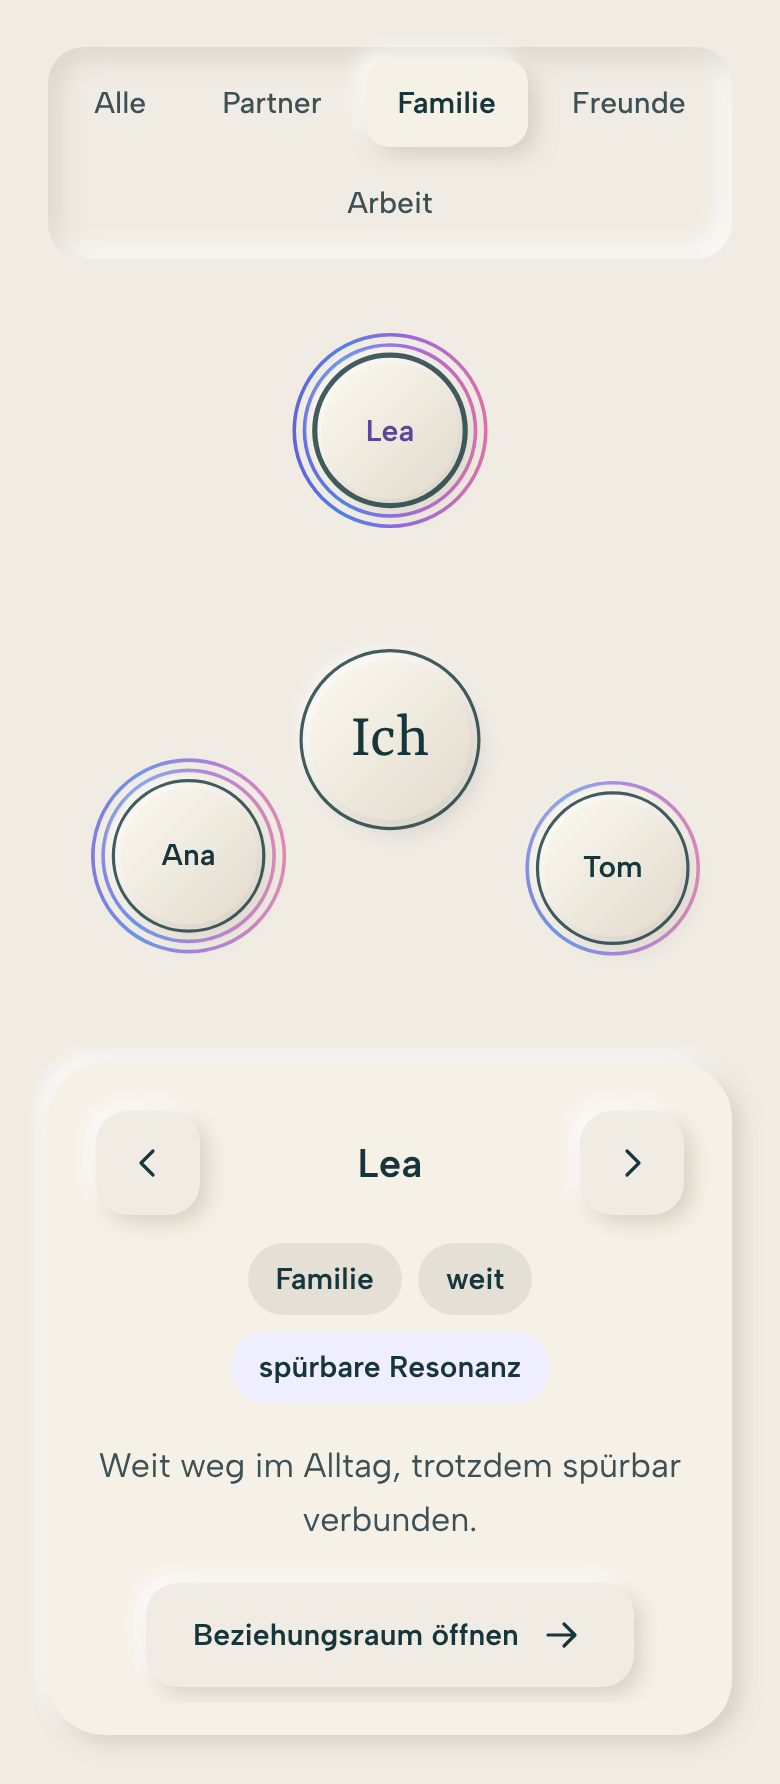
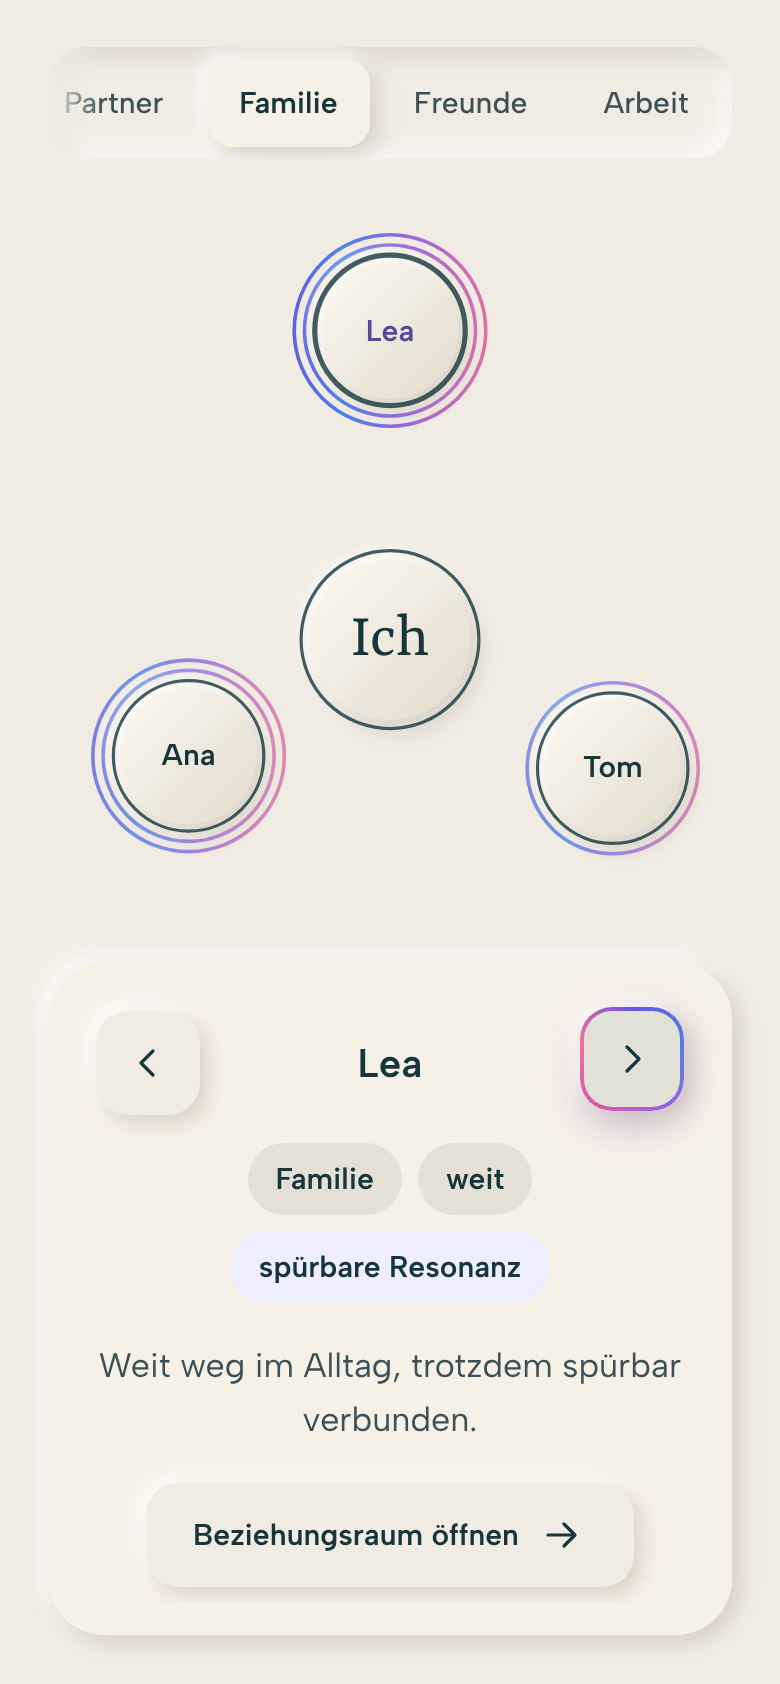
Umfeld: eigene Menschen und Arten, Filter einzeilig
mount() nimmt people und kinds entgegen, die Beispieldaten sind nur noch
die Vorgabe. Namen und Notizen werden als Text gesetzt. Die Filterzeile
auf dem Telefon bleibt einzeilig und lässt sich wischen.

Claude-Session: https://claude.ai/code/session_01GcUU3Qg4dj9oPnZ4iDHoTB

diff --git a/components/umfeld/umfeld.js b/components/umfeld/umfeld.js
@@ -5,7 +5,7 @@
    die Resonanz (wie im Beziehungsraum), keine Linie führt zur Mitte. Ohne
    aktive Resonanz bleibt nur der Abstand. Der Freiraum fehlt, das Umfeld
    kennt den Wert nicht.
-   Der Winkel sagt die Art (KINDS: Partner, Familie, Freunde, Arbeit, im Uhrzeigersinn,
+   Der Winkel sagt die Art (opts.kinds, Vorgabe Partner, Familie, Freunde, Arbeit, im Uhrzeigersinn,
    die erste oben). Wer zusammengehört, steht beieinander. Ein feiner Bogen mit dem Wort
    der Art fasst jede Gruppe, wie die Bereiche des Resonanzrads. Das Wort misst am
    Bildschirm mindestens 15 px, das Bild baut sich bei Breitenwechsel neu auf.
@@ -28,7 +28,16 @@
    in eine andere Art, springt der Filter mit. Ab 520 px (wide) gibt es keinen Filter, das Bild zeigt
    alle mit Namen. Wird das Element breiter oder schmaler, baut sich das Bild neu auf, die Auswahl bleibt.
 
-   API: ElanumUmfeld.mount(root, { link: 'pfad/zum/beziehungsraum/', heading: 'h3' })
+   Die Filterzeile bleibt einzeilig und lässt sich waagrecht wischen (die Zeile scrollt, nicht die Seite). Passt alles hinein,
+   steht sie mittig. Die gewählte Pille rollt in den sichtbaren Bereich, ein weicher Rand zeigt, dass es weitergeht.
+
+   API: ElanumUmfeld.mount(root, { link: 'pfad/zum/beziehungsraum/', heading: 'h3', people: [...], kinds: [...] })
+        people: Array { name, kind, proximity (0 bis 100), resonance (0 bis 100), note }. Fehlt es, gelten die Beispielmenschen
+        (window.ElanumUmfeld.people). Namen und Notizen werden als Text gesetzt, nie als HTML.
+        kinds: Reihenfolge der Arten als Array von Strings (Vorgabe window.ElanumUmfeld.kinds). Arten, die nur in people vorkommen,
+        hängen hinten an (Reihenfolge des ersten Auftretens), Arten ohne Menschen entfallen. Gibt es weniger als zwei Arten, gibt es
+        keine Bögen, Wörter und keinen Filter, und die Menschen stehen gleichmässig verteilt. Wer in einem Umfeld mit mehreren Arten
+        keine hat, steht in der Gruppe «Weitere». Null Menschen: nur «Ich», kein Panel. Ein Mensch: keine Pfeile.
         gibt { select(i), parts } zurück. select(i) wählt den Menschen i (läuft um).
         parts.people: je sichtbarem Menschen { index, person, disc, contour, rings, name (nur mit Namen), from, at, width },
         parts.groups: die Gruppen-Knöpfe der Übersicht, parts.view: 'wide', 'all' oder 'kind'.
@@ -45,10 +54,11 @@
     /* Eine Art auf dem Telefon: gross, mit Namen, gleichmässig rund um «Ich», keine Bögen. */
     kind: { W: 400, H: 400, CX: 200, CY: 200, ME: 52, R: 44, base: 120, k: 0.8, edge: 200, ring: 6, out: 172, fs0: 15, px0: 358 }
   };
-  /* Der Winkel sagt die Art. Die Reihenfolge der Arten läuft im Uhrzeigersinn, die erste steht oben. */
-  var KINDS = ['Partner', 'Familie', 'Freunde', 'Arbeit'];
+  /* Der Winkel sagt die Art. Die Reihenfolge der Arten läuft im Uhrzeigersinn, die erste steht oben.
+     Vorgabe, wenn die App keine eigenen Arten (opts.kinds) und Menschen (opts.people) mitgibt. */
+  var DEFAULT_KINDS = ['Partner', 'Familie', 'Freunde', 'Arbeit'];
   var GAP = 16, MIN_WORD = 15;
-  var PEOPLE = [
+  var SAMPLE = [
     { name: 'Mara', kind: 'Partner', proximity: 84, resonance: 86, note: 'Ihr teilt viel, ohne dasselbe zu brauchen.' },
     { name: 'Lea', kind: 'Familie', proximity: 24, resonance: 64, note: 'Weit weg im Alltag, trotzdem spürbar verbunden.' },
     { name: 'Tom', kind: 'Familie', proximity: 62, resonance: 30, note: 'Ihr seht euch oft. Die Verbindung ist leise.' },
@@ -58,16 +68,48 @@
     { name: 'Nia', kind: 'Freunde', proximity: 38, resonance: 88, note: 'Selten da, und doch die stärkste Resonanz.' },
     { name: 'Ben', kind: 'Arbeit', proximity: 28, resonance: 20, note: 'Ihr arbeitet zusammen. Mehr ist es im Moment nicht.' },
     { name: 'Ida', kind: 'Arbeit', proximity: 58, resonance: 0, note: 'Nah im Alltag, ohne aktive Resonanz.' }
-  ].sort(function (a, b) { return KINDS.indexOf(a.kind) - KINDS.indexOf(b.kind); });
+  ].sort(function (a, b) { return DEFAULT_KINDS.indexOf(a.kind) - DEFAULT_KINDS.indexOf(b.kind); });
+  function num(v, fallback) { v = Number(v); return isFinite(v) ? Math.max(0, Math.min(100, v)) : fallback; }
+  /* Menschen und Arten der App ordnen: Werte säubern, Arten in die Reihenfolge von opts.kinds bringen.
+     Arten, die nur in den Menschen vorkommen, hängen hinten (Reihenfolge ihres ersten Auftretens), Arten ohne Menschen entfallen.
+     Gibt es weniger als zwei Arten, gibt es keine Gruppen: grouped ist false und das Bild verteilt die Menschen gleichmässig. */
+  function prepare(opts) {
+    var raw = opts.people === undefined ? SAMPLE : Array.isArray(opts.people) ? opts.people : [];
+    var list = [];
+    raw.forEach(function (src) {
+      if (!src || typeof src !== 'object') return;
+      var p = {}, k;
+      for (k in src) p[k] = src[k];
+      p.name = src.name == null ? '' : String(src.name);
+      p.kind = src.kind == null ? '' : String(src.kind).trim();
+      p.proximity = num(src.proximity, 50); p.resonance = num(src.resonance, 0);
+      p.note = src.note == null ? '' : String(src.note);
+      list.push(p);
+    });
+    var order = [];
+    (Array.isArray(opts.kinds) ? opts.kinds : DEFAULT_KINDS).concat(list.map(function (p) { return p.kind; })).forEach(function (k) {
+      k = k == null ? '' : String(k).trim();
+      if (k && order.indexOf(k) < 0) order.push(k);
+    });
+    var present = order.filter(function (k) { return list.some(function (p) { return p.kind === k; }); });
+    var grouped = present.length >= 2;
+    if (grouped) {
+      /* Wer keine Art hat, steht in einer letzten Gruppe «Weitere». */
+      if (list.some(function (p) { return !p.kind; })) { list.forEach(function (p) { if (!p.kind) p.kind = 'Weitere'; }); if (present.indexOf('Weitere') < 0) present.push('Weitere'); }
+      list = list.map(function (p, i) { return { p: p, i: i }; }).sort(function (a, b) { return (present.indexOf(a.p.kind) - present.indexOf(b.p.kind)) || (a.i - b.i); }).map(function (e) { return e.p; });
+    }
+    return { people: list, kinds: grouped ? present : [], grouped: grouped };
+  }
   function near(p) { return p.proximity < 34 ? 'weit' : p.proximity < 75 ? 'nah' : 'sehr nah'; }
   function res(p) { return p.resonance === 0 ? 'keine Resonanz' : p.resonance < 40 ? 'leise Resonanz' : p.resonance < 80 ? 'spürbare Resonanz' : 'starke Resonanz'; }
-  function words(p) { return p.kind + ', ' + near(p) + ', ' + res(p); }
+  function words(p) { return (p.kind ? p.kind + ', ' : '') + near(p) + ', ' + res(p); }
   function el(name, attrs) { var n = document.createElementNS(NS, name); for (var k in attrs) n.setAttribute(k, attrs[k]); return n; }
 
   var count = 0;
   function mount(root, opts) {
     opts = opts || {};
-    var uid = 'uf' + (++count), heading = opts.heading || 'h2', link = opts.link || '../beziehungsraum/';
+    var uid = 'uf' + (++count), heading = /^h[1-6]$/.test(opts.heading) ? opts.heading : 'h2', link = opts.link || '../beziehungsraum/';
+    var data = prepare(opts), PEOPLE = data.people, KINDS_IN = data.kinds, GROUPED = data.grouped;
     root.classList.add('umfeld');
     var ARROW_PREV = '<svg class="icon" viewBox="0 0 24 24" aria-hidden="true"><path d="M14.5 6l-6 6 6 6"/></svg>';
     var ARROW_NEXT = '<svg class="icon" viewBox="0 0 24 24" aria-hidden="true"><path d="M9.5 6l6 6-6 6"/></svg>';
@@ -88,25 +130,36 @@
     var selected = 0, layoutName = '', filter = 'all', api = { parts: {} };
     var calm = function () { return window.matchMedia && matchMedia('(prefers-reduced-motion: reduce)').matches; };
 
+    /* Namen und Notizen gelangen nur als Text ins Dokument (textContent), nie als HTML. */
+    var chip = function (text, cls) { var c = document.createElement('span'); c.className = 'element-chip ' + (cls || '') + 'umfeld__pill'; c.textContent = text; return c; };
     var slides = PEOPLE.map(function (p) {
       var href = link + '?person=' + encodeURIComponent(p.name) + '&proximity=' + p.proximity + '&resonance=' + p.resonance;
       var s = document.createElement('div');
       s.className = 'umfeld__slide'; s.setAttribute('role', 'group'); s.setAttribute('aria-roledescription', 'Folie');
-      s.innerHTML = '<div class="umfeld__pills"><span class="element-chip umfeld__pill">' + p.kind + '</span>' +
-        '<span class="element-chip umfeld__pill">' + near(p) + '</span>' +
-        '<span class="element-chip area umfeld__pill">' + res(p) + '</span></div>' +
-        '<p class="secondary">' + p.note + '</p>' +
-        '<a class="button button--secondary glow-edge" href="' + href + '">Beziehungsraum öffnen <svg class="icon" viewBox="0 0 24 24" aria-hidden="true"><path d="M5 12h13M13 6.5l5.5 5.5-5.5 5.5"/></svg></a>';
+      var pills = document.createElement('div'); pills.className = 'umfeld__pills';
+      if (p.kind) pills.appendChild(chip(p.kind));
+      pills.appendChild(chip(near(p))); pills.appendChild(chip(res(p), 'area '));
+      s.appendChild(pills);
+      if (p.note) { var note = document.createElement('p'); note.className = 'secondary'; note.textContent = p.note; s.appendChild(note); }
+      var a = document.createElement('a'); a.className = 'button button--secondary glow-edge'; a.href = href;
+      a.appendChild(document.createTextNode('Beziehungsraum öffnen '));
+      var svg = document.createElementNS(NS, 'svg'); svg.setAttribute('class', 'icon'); svg.setAttribute('viewBox', '0 0 24 24'); svg.setAttribute('aria-hidden', 'true');
+      svg.appendChild(el('path', { d: 'M5 12h13M13 6.5l5.5 5.5-5.5 5.5' })); a.appendChild(svg);
+      s.appendChild(a);
       slider.appendChild(s);
       return s;
     });
     slides.forEach(function (s, i) { s.setAttribute('aria-label', (i + 1) + ' von ' + PEOPLE.length); });
+    /* Ohne Menschen gibt es kein Panel, mit einem Menschen keine Pfeile. */
+    var panel = root.querySelector('.umfeld__panel');
+    panel.hidden = !PEOPLE.length;
     root.querySelectorAll('[data-nav]').forEach(function (b) {
+      b.hidden = PEOPLE.length < 2;
       b.addEventListener('click', function () { select(selected + (b.getAttribute('data-nav') === 'next' ? 1 : -1)); });
     });
 
     /* Abstand von Slide zu Slide (Breite eines Slides). */
-    function pitch() { return slides[0].offsetWidth || slider.clientWidth; }
+    function pitch() { return slides[0] ? slides[0].offsetWidth || slider.clientWidth : 0; }
     function slideTo(i, smooth) {
       var left = i * pitch();
       if (Math.abs(slider.scrollLeft - left) < 1) return;
@@ -152,23 +205,41 @@
     slider.addEventListener('click', function (e) { if (suppress) { e.preventDefault(); e.stopPropagation(); } }, true);
     slider.addEventListener('dragstart', function (e) { e.preventDefault(); });
 
-    /* Filterzeile (nur im Hochformat): «Alle» und je eine vorhandene Art. */
-    var KINDS_IN = KINDS.filter(function (k) { return PEOPLE.some(function (p) { return p.kind === k; }); });
-    var filterButtons = ['Alle'].concat(KINDS_IN).map(function (label) {
+    /* Filterzeile (nur im Hochformat und nur mit mindestens zwei Arten): «Alle» und je eine vorhandene Art.
+       Sie bleibt einzeilig und lässt sich wischen. Passt alles hinein, steht sie mittig. */
+    var filterButtons = (GROUPED ? ['Alle'].concat(KINDS_IN) : []).map(function (label) {
       var b = document.createElement('button'); b.type = 'button'; b.textContent = label;
       b.setAttribute('aria-pressed', 'false'); b.setAttribute('data-filter', label === 'Alle' ? 'all' : label);
       b.addEventListener('click', function () { setFilter(label === 'Alle' ? 'all' : label); });
       filterBar.appendChild(b); return b;
     });
+    /* Weicher Rand als Hinweis, dass die Zeile weitergeht (Maske, keine Farbe). */
+    function fadeFilter() {
+      var max = filterBar.scrollWidth - filterBar.clientWidth, left = filterBar.scrollLeft;
+      filterBar.style.setProperty('--fade-l', left > 1 ? '28px' : '0px');
+      filterBar.style.setProperty('--fade-r', left < max - 1 ? '28px' : '0px');
+    }
+    filterBar.addEventListener('scroll', fadeFilter, { passive: true });
+    /* Die gewählte Pille rollt in den sichtbaren Bereich der Zeile. Nur die Zeile scrollt (scrollLeft), nie die Seite. */
+    function showFilter(smooth) {
+      var b = filterButtons.filter(function (x) { return x.getAttribute('aria-pressed') === 'true'; })[0];
+      if (b && !filterBar.hidden) {
+        var pad = 12, l = b.offsetLeft, r = l + b.offsetWidth, v0 = filterBar.scrollLeft, w = filterBar.clientWidth, to = v0;
+        if (l - pad < v0) to = Math.max(0, l - pad); else if (r + pad > v0 + w) to = r + pad - w;
+        if (Math.abs(to - v0) >= 1) { if (smooth && !calm()) filterBar.scrollTo({ left: to, behavior: 'smooth' }); else filterBar.scrollLeft = to; }
+      }
+      fadeFilter();
+    }
     function markFilter() {
-      filterBar.hidden = layoutName === 'wide';
+      filterBar.hidden = layoutName === 'wide' || !GROUPED;
       filterButtons.forEach(function (b) { b.setAttribute('aria-pressed', String(b.getAttribute('data-filter') === filter)); });
+      showFilter(api.ready);
     }
     function firstOf(kind) { for (var i = 0; i < PEOPLE.length; i++) if (PEOPLE[i].kind === kind) return i; return 0; }
     function setFilter(f) {
       if (f === filter) return;
       filter = f;
-      if (f !== 'all' && PEOPLE[selected].kind !== f) select(firstOf(f));
+      if (f !== 'all' && PEOPLE[selected] && PEOPLE[selected].kind !== f) select(firstOf(f));
       render(true);
     }
 
@@ -181,18 +252,19 @@
     }
     function draw(name) {
       /* Der Filter folgt der Auswahl: nach einem Wechsel von wide auf tall passt er sich an. */
-      if (name === 'tall' && filter !== 'all' && PEOPLE[selected].kind !== filter) filter = PEOPLE[selected].kind;
-      var mode = name === 'wide' ? 'wide' : filter === 'all' ? 'all' : 'kind';
+      if (name === 'tall' && filter !== 'all' && PEOPLE[selected] && PEOPLE[selected].kind !== filter) filter = PEOPLE[selected].kind;
+      /* Ohne Gruppen gibt es auf dem Telefon keine Übersicht aus Punkten: alle stehen gross mit Namen. */
+      var mode = name === 'wide' ? 'wide' : !GROUPED || filter !== 'all' ? 'kind' : 'all';
       var L = LAYOUTS[mode];
       var hadFocus = stage.contains(document.activeElement);
       layoutName = name;
       var px = stage.getBoundingClientRect().width; lastW = px;
       /* Wer wird gezeichnet: alle, oder nur die gewählte Art. */
       var list = [];
-      PEOPLE.forEach(function (p, i) { if (mode !== 'kind' || p.kind === filter) list.push({ p: p, i: i }); });
+      PEOPLE.forEach(function (p, i) { if (mode !== 'kind' || !GROUPED || p.kind === filter) list.push({ p: p, i: i }); });
       /* Gruppen: Arten ohne Menschen bekommen keinen Platz. Jede Gruppe hat ihren Platz (slot), die Menschen stehen darin gleichmässig. */
       var kinds = mode === 'kind' ? [] : KINDS_IN;
-      var per = (360 - GAP * kinds.length) / PEOPLE.length, at = 0;
+      var per = (360 - GAP * kinds.length) / Math.max(1, PEOPLE.length), at = 0;
       var groups = kinds.map(function (k, gi) {
         var n = PEOPLE.filter(function (p) { return p.kind === k; }).length;
         if (gi === 0) at = -per * n / 2;
@@ -202,11 +274,14 @@
       var pos = function (a, d) { var r = a * Math.PI / 180; return [L.CX + d * Math.sin(r), L.CY - d * Math.cos(r)]; };
       var first = {};
       /* Lage aller Menschen zuerst: daraus wird das Bild auf den Inhalt beschnitten. */
+      /* Gleichmässig verteilt (eine Art oder keine Gruppen): Bei vielen Menschen rückt der ganze Ring nach aussen, damit die Kreise sich nicht berühren. */
+      var even = mode === 'kind' || !GROUPED, extra = 0;
+      if (even && list.length > 1) extra = Math.max(0, list.length * (2 * (L.R + L.ring * 3) + 10) / (2 * Math.PI) - L.base);
       var geo = list.map(function (e, n) {
         var p = e.p, ang;
-        if (mode === 'kind') ang = 360 / list.length * n;
+        if (even) ang = 360 / list.length * n;
         else { var gr = groups[kinds.indexOf(p.kind)], idx = first[p.kind] = (first[p.kind] === undefined ? 0 : first[p.kind] + 1); ang = gr.a0 + per * (idx + 0.5); }
-        var dist = L.base + (100 - p.proximity) * L.k, xy = pos(ang, dist);
+        var dist = L.base + extra + (100 - p.proximity) * L.k, xy = pos(ang, dist);
         var level = p.resonance === 0 ? 0 : p.resonance < 40 ? 1 : p.resonance < 80 ? 2 : 3;
         return { dist: dist, level: level, x: xy[0], y: xy[1] };
       });
@@ -347,7 +422,7 @@
     function focusSelected() {
       var q = (api.parts.people || []).filter(function (x) { return x.index === selected; })[0];
       if (q && q.name) { q.name.focus(); return; }
-      var g = (api.parts.groups || []).filter(function (x) { return x.getAttribute('data-kind') === PEOPLE[selected].kind; })[0];
+      var g = PEOPLE[selected] && (api.parts.groups || []).filter(function (x) { return x.getAttribute('data-kind') === PEOPLE[selected].kind; })[0];
       if (g) g.focus();
     }
 
@@ -360,6 +435,7 @@
       });
     }
     function select(i, fromScroll) {
+      if (!PEOPLE.length) return;
       i = ((i % PEOPLE.length) + PEOPLE.length) % PEOPLE.length;
       var first = !api.ready;
       selected = i;
@@ -391,5 +467,5 @@
     root._umfeld = api;
     return api;
   }
-  window.ElanumUmfeld = { mount: mount, people: PEOPLE };
+  window.ElanumUmfeld = { mount: mount, people: SAMPLE, kinds: DEFAULT_KINDS };
 })();

diff --git a/components/umfeld/umfeld.css b/components/umfeld/umfeld.css
@@ -3,7 +3,7 @@
    ============================================================ */
 /* Aufbau und Masse wie .rad (Resonanzrad): Bühne mit Bild und Zeile, daneben oder darunter der Lesebereich */
 .umfeld{display:grid;gap:clamp(40px,6vw,72px);align-items:start}
-.umfeld__stage{display:grid;gap:24px;justify-items:center}
+.umfeld__stage{display:grid;grid-template-columns:minmax(0,1fr);gap:24px;justify-items:center}
 .umfeld__scene{position:relative;width:min(100%,640px)}
 .umfeld__svg{width:100%;height:auto;overflow:visible}
 .umfeld__contour{fill:none;stroke:var(--ink);stroke-width:var(--trace);stroke-linecap:round;vector-effect:non-scaling-stroke;transition:stroke-width var(--motion-ui) ease}
@@ -40,8 +40,13 @@
 .umfeld__scene[data-layout=tall] .umfeld__name{font:var(--type-label);font-weight:600}
 .umfeld__scene[data-layout=tall] .umfeld__name--me{font:var(--type-title);font-size:32px;line-height:1}
 @media(min-width:900px){.umfeld{grid-template-columns:minmax(0,1.2fr) minmax(0,.8fr);column-gap:clamp(48px,6vw,96px);align-items:center}}
-/* Filterzeile im Hochformat: Pillen wie .segmented (base.css), mittig umbrechend. Im breiten Layout verborgen. */
-.umfeld__filter{justify-content:center;max-width:100%;box-sizing:border-box}
+/* Filterzeile im Hochformat: Pillen wie .segmented (base.css), immer eine Zeile und waagrecht wischbar. Passt alles hinein, steht sie mittig (die Bühne zentriert sie), sonst beginnt sie links.
+   Der Innenabstand von 6 px lässt dem Fokusrahmen (3 px plus 2 px Abstand) Platz. Ein weicher Rand (Maske, --fade-l und --fade-r setzt das Skript) zeigt, dass es weitergeht. */
+.umfeld__filter{position:relative;justify-content:flex-start;flex-wrap:nowrap;max-width:100%;min-width:0;box-sizing:border-box;overflow-x:auto;overflow-y:hidden;overscroll-behavior-x:contain;scroll-snap-type:x proximity;scroll-padding-inline:6px;scrollbar-width:none;
+  --fade-l:0px;--fade-r:0px;-webkit-mask-image:linear-gradient(90deg,transparent 0,#000 var(--fade-l),#000 calc(100% - var(--fade-r)),transparent 100%);mask-image:linear-gradient(90deg,transparent 0,#000 var(--fade-l),#000 calc(100% - var(--fade-r)),transparent 100%)}
+.umfeld__filter::-webkit-scrollbar{display:none}
+.umfeld__filter button{flex:0 0 auto;white-space:nowrap;scroll-snap-align:start}
+.umfeld__filter button:focus-visible{outline-offset:2px}
 .umfeld__filter[hidden]{display:none}
 /* Übersicht: Menschen sind Punkte, die gewählte hat eine kräftigere Kontur. Je Gruppe liegt ein transparenter Knopf darüber. */
 .umfeld__scene[data-view=all] .umfeld__contour.is-active:not(.umfeld__me){stroke:var(--sterne-tief);stroke-width:3.2}

diff --git a/README.md b/README.md
@@ -198,15 +198,29 @@ Jeder Baustein ist ein klassisches Skript und legt ein Objekt auf `window`. Mit 
 
 **Umfeld** · `components/umfeld/`, dazu `beziehungsraum.css` · `window.ElanumUmfeld`
 
-- `mount(root, { link, heading })` zeichnet Ich und die Menschen darum und gibt `{ select(i), parts }` zurück. `link` führt zum Beziehungsraum, ergänzt um `?person=…&proximity=…&resonance=…`.
-- Bedienung: Die Kreise im Bild sind Knöpfe (Pfeiltasten wechseln den Menschen). Aufbau: das Bild, darunter (ab 900 px daneben) ein Panel `.umfeld__panel` (erhöhte Karte). Oben im Panel `.umfeld__nav` mit den Pfeilen und dem Namen des gewählten Menschen (`.umfeld__current`, als Überschrift im mit `heading` gewählten Level), darunter der Lesebereich `.umfeld__reader` mit Pillen für Nähe und Resonanz, Notiz und Knopf, zentriert, zum Ziehen mit Finger oder Maus. Jede Angabe steht nur einmal. Das Bild ist senkrecht auf den Inhalt beschnitten. Eine Liste gibt es nicht. Unter 520 px Bühnenbreite Breite (Telefon) steht über dem Bild die Filterzeile `.umfeld__filter` («Alle» und je eine Art): «Alle» zeigt die Menschen als Punkte ohne Namen mit einem Knopf `.umfeld__group` je Gruppe, eine Art zeigt ihre Menschen gross mit Namen. Pfeile und Slider laufen durch alle, der Filter folgt der Auswahl. `parts.view` ist `wide`, `all` oder `kind`. Grund: Rückmeldungen Chris vom 15.11. und 16.11.2026, Design wie die Ich-Übersicht, eine Einheit.
-- `people`: die Menschen der Vorschau, je mit `kind` (Art), `proximity` und `resonance`. Der Winkel sagt die Art (Partner, Familie, Freunde, Arbeit, im Uhrzeigersinn, die erste oben), der Abstand die Nähe, die Linien die Resonanz. Ein feiner Bogen mit dem Wort der Art fasst jede Gruppe (`parts.arcs`), das Wort misst am Bildschirm mindestens 15 px. Die Art steht als erste Pille. Auf dem Telefon wird es ab etwa acht Menschen eng, dann braucht es einen Filter nach Art.
+- `mount(root, { link, heading, people, kinds })` zeichnet Ich und die Menschen darum und gibt `{ select(i), parts }` zurück. `link` führt zum Beziehungsraum, ergänzt um `?person=…&proximity=…&resonance=…`. `people` ist ein Array `{ name, kind, proximity, resonance, note }` (0 bis 100, Vorgabe: die Beispielmenschen), `kinds` die Reihenfolge der Arten als Array von Strings (Vorgabe `['Partner','Familie','Freunde','Arbeit']`). Arten, die nur in `people` vorkommen, hängen hinten an (Reihenfolge des ersten Auftretens), Arten ohne Menschen bekommen weder Platz noch Pille. Gibt es weniger als zwei Arten (oder fehlt `kind` überall), entfallen Bögen, Wörter und Filter, und die Menschen stehen gleichmässig verteilt. Wer bei mehreren Arten keine hat, steht in der Gruppe «Weitere». Null Menschen zeigen nur «Ich» ohne Panel, ein Mensch hat keine Pfeile. Namen und Notizen werden als Text gesetzt, nie als HTML.
+- Bedienung: Die Kreise im Bild sind Knöpfe (Pfeiltasten wechseln den Menschen). Aufbau: das Bild, darunter (ab 900 px daneben) ein Panel `.umfeld__panel` (erhöhte Karte). Oben im Panel `.umfeld__nav` mit den Pfeilen und dem Namen des gewählten Menschen (`.umfeld__current`, als Überschrift im mit `heading` gewählten Level), darunter der Lesebereich `.umfeld__reader` mit Pillen für Nähe und Resonanz, Notiz und Knopf, zentriert, zum Ziehen mit Finger oder Maus. Jede Angabe steht nur einmal. Das Bild ist senkrecht auf den Inhalt beschnitten. Eine Liste gibt es nicht. Unter 520 px Bühnenbreite (Telefon) steht über dem Bild die Filterzeile `.umfeld__filter` («Alle» und je eine Art, immer eine Zeile, waagrecht wischbar, die gewählte Pille rollt ins Bild): «Alle» zeigt die Menschen als Punkte ohne Namen mit einem Knopf `.umfeld__group` je Gruppe, eine Art zeigt ihre Menschen gross mit Namen. Pfeile und Slider laufen durch alle, der Filter folgt der Auswahl. `parts.view` ist `wide`, `all` oder `kind`. Grund: Rückmeldungen Chris vom 15.11. und 16.11.2026, Design wie die Ich-Übersicht, eine Einheit.
+- `ElanumUmfeld.people` und `ElanumUmfeld.kinds`: die Beispieldaten und die Vorgabe der Arten. Die Menschen haben je `kind` (Art), `proximity` und `resonance`. Der Winkel sagt die Art (Partner, Familie, Freunde, Arbeit, im Uhrzeigersinn, die erste oben), der Abstand die Nähe, die Linien die Resonanz. Ein feiner Bogen mit dem Wort der Art fasst jede Gruppe (`parts.arcs`), das Wort misst am Bildschirm mindestens 15 px. Die Art steht als erste Pille. Auf dem Telefon wird es ab etwa acht Menschen eng, dann braucht es einen Filter nach Art.
 
 ```html
 <div data-umfeld data-anim="umfeld"></div>
 <script>
   ElanumUmfeld.mount(document.querySelector('[data-umfeld]'), { link: '/beziehungsraum/', heading: 'h3' });
 </script>
+```
+
+Mit eigenen Daten:
+
+```js
+ElanumUmfeld.mount(document.querySelector('[data-umfeld]'), {
+  link: '/beziehungsraum/',
+  heading: 'h3',
+  kinds: ['Familie', 'Freunde'],
+  people: [
+    { name: 'Noa', kind: 'Familie', proximity: 80, resonance: 70, note: 'Sehr nah.' },
+    { name: 'Eli', kind: 'Freunde', proximity: 35, resonance: 0, note: 'Selten, ohne aktive Resonanz.' }
+  ]
+});
 ```
 
 **Beziehungsraum** · `components/beziehungsraum/` · `window.ElanumBeziehung`
